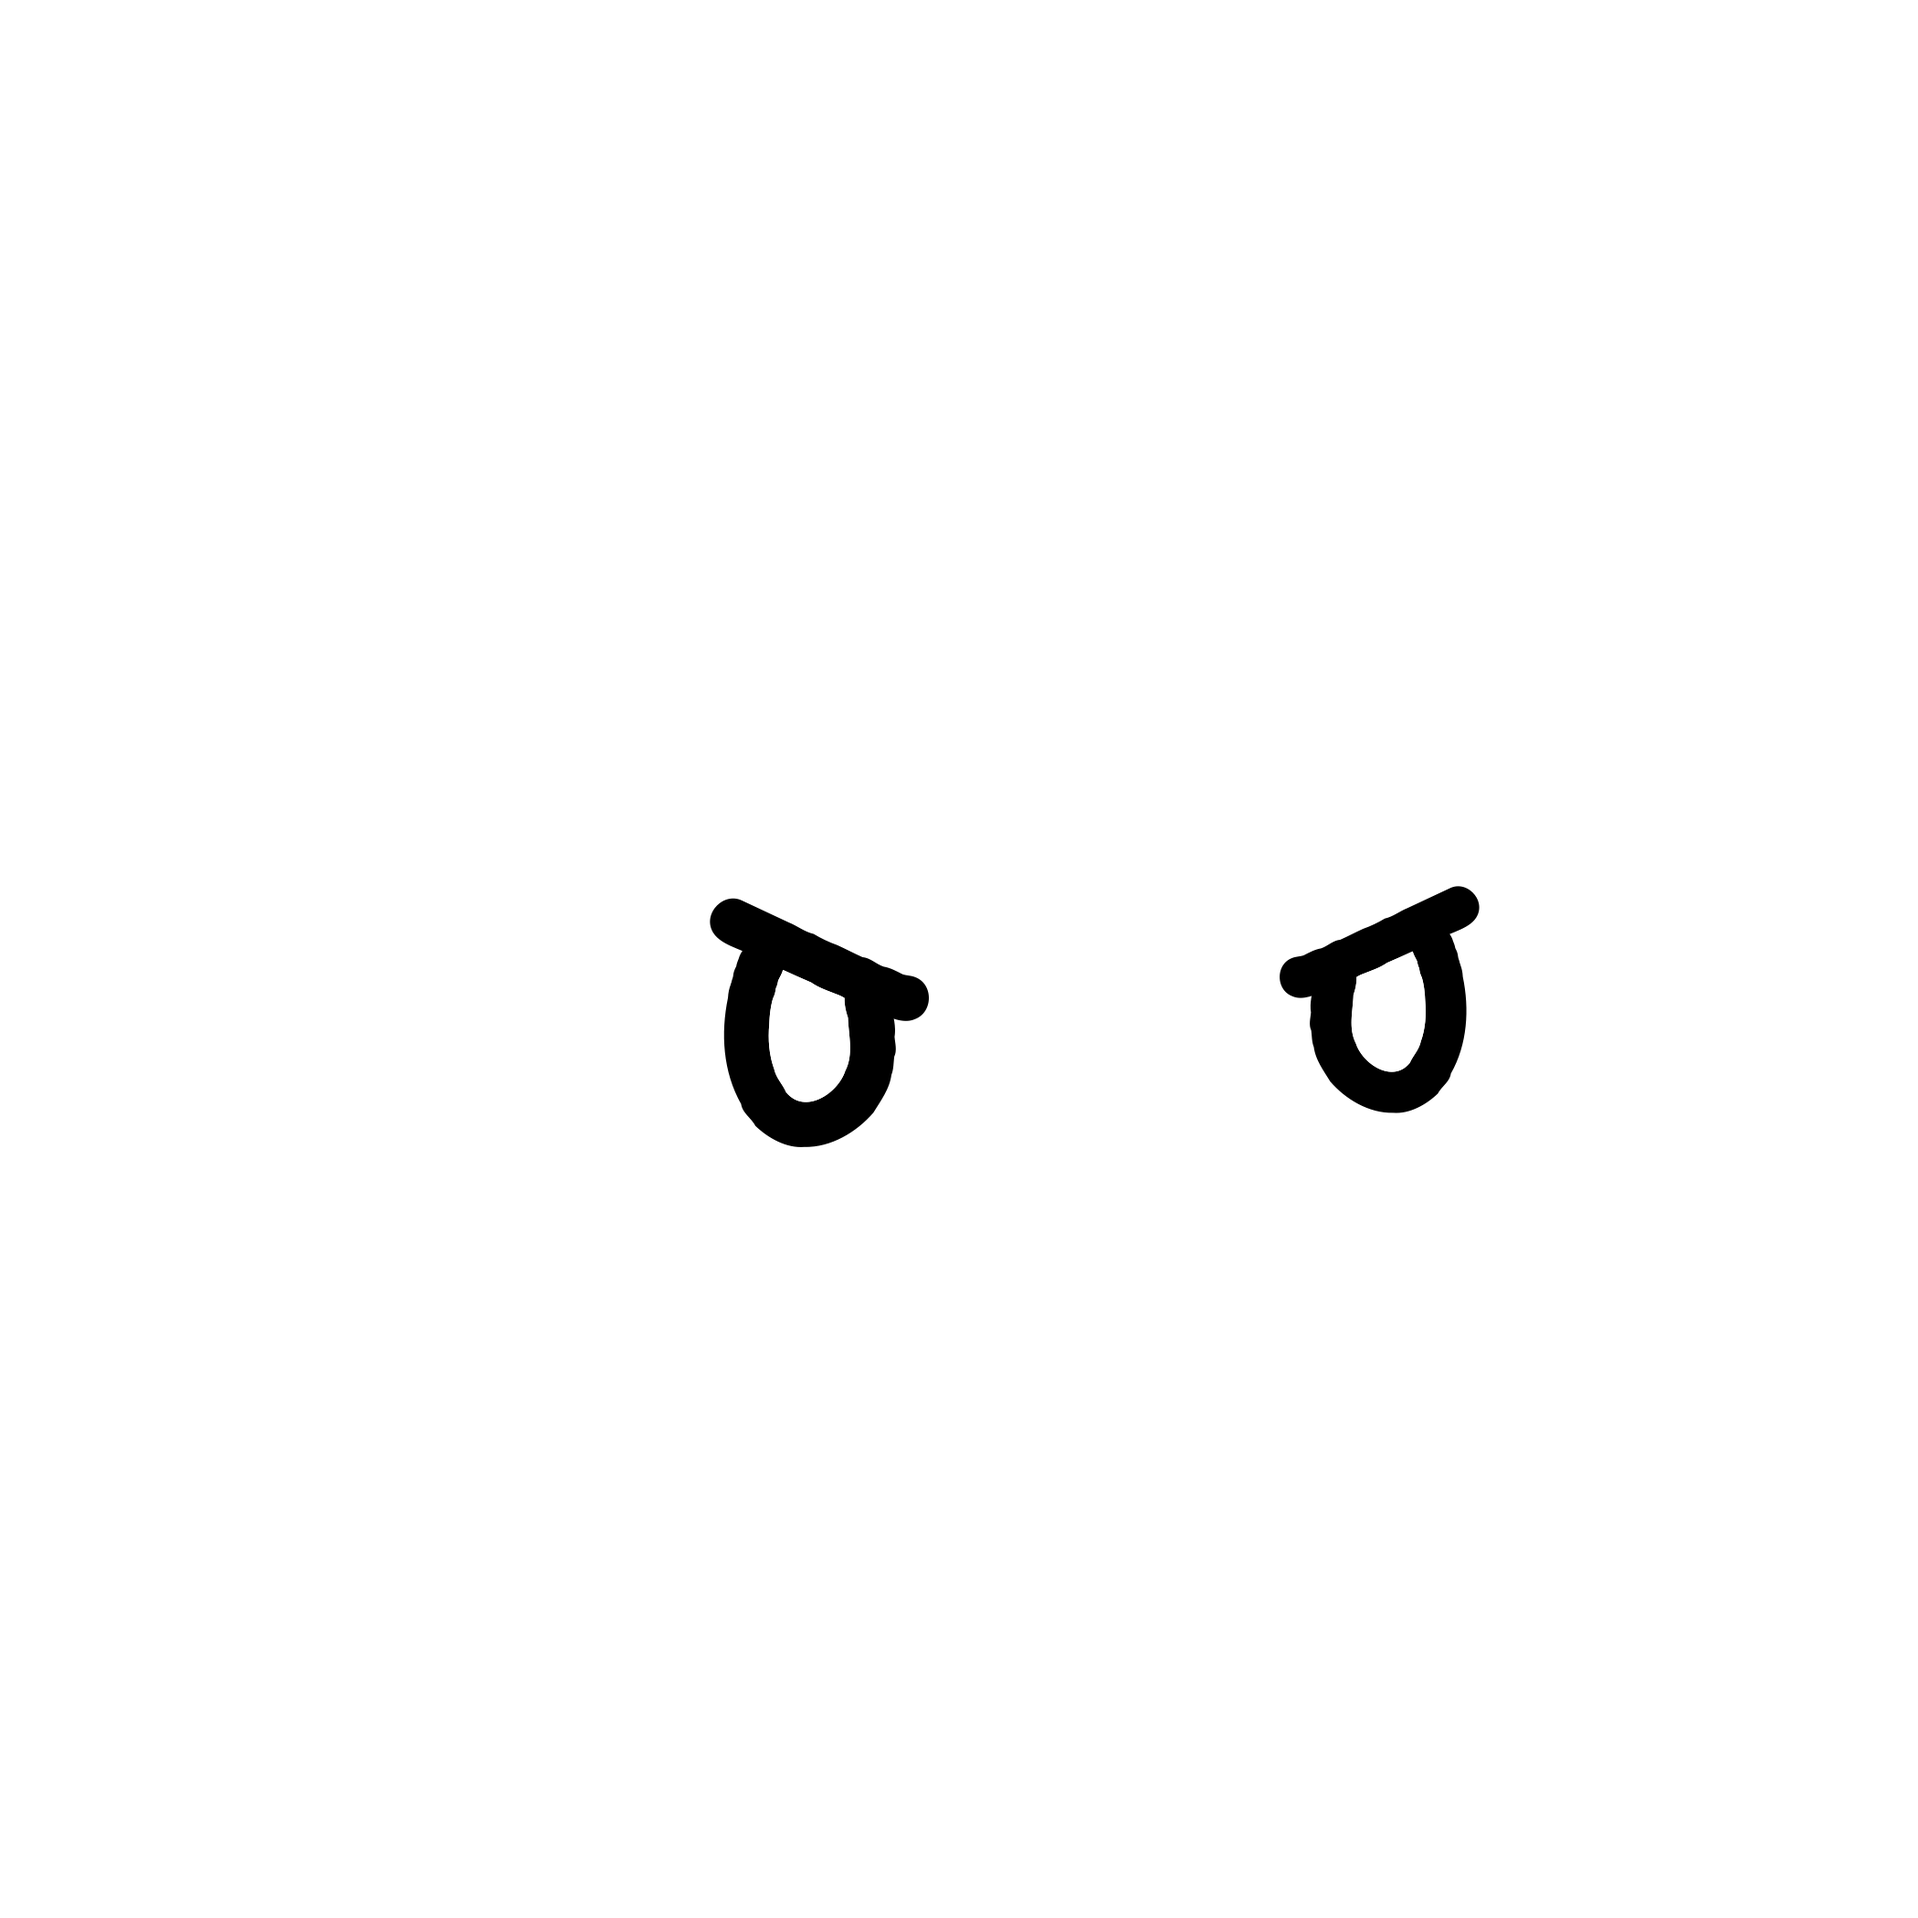
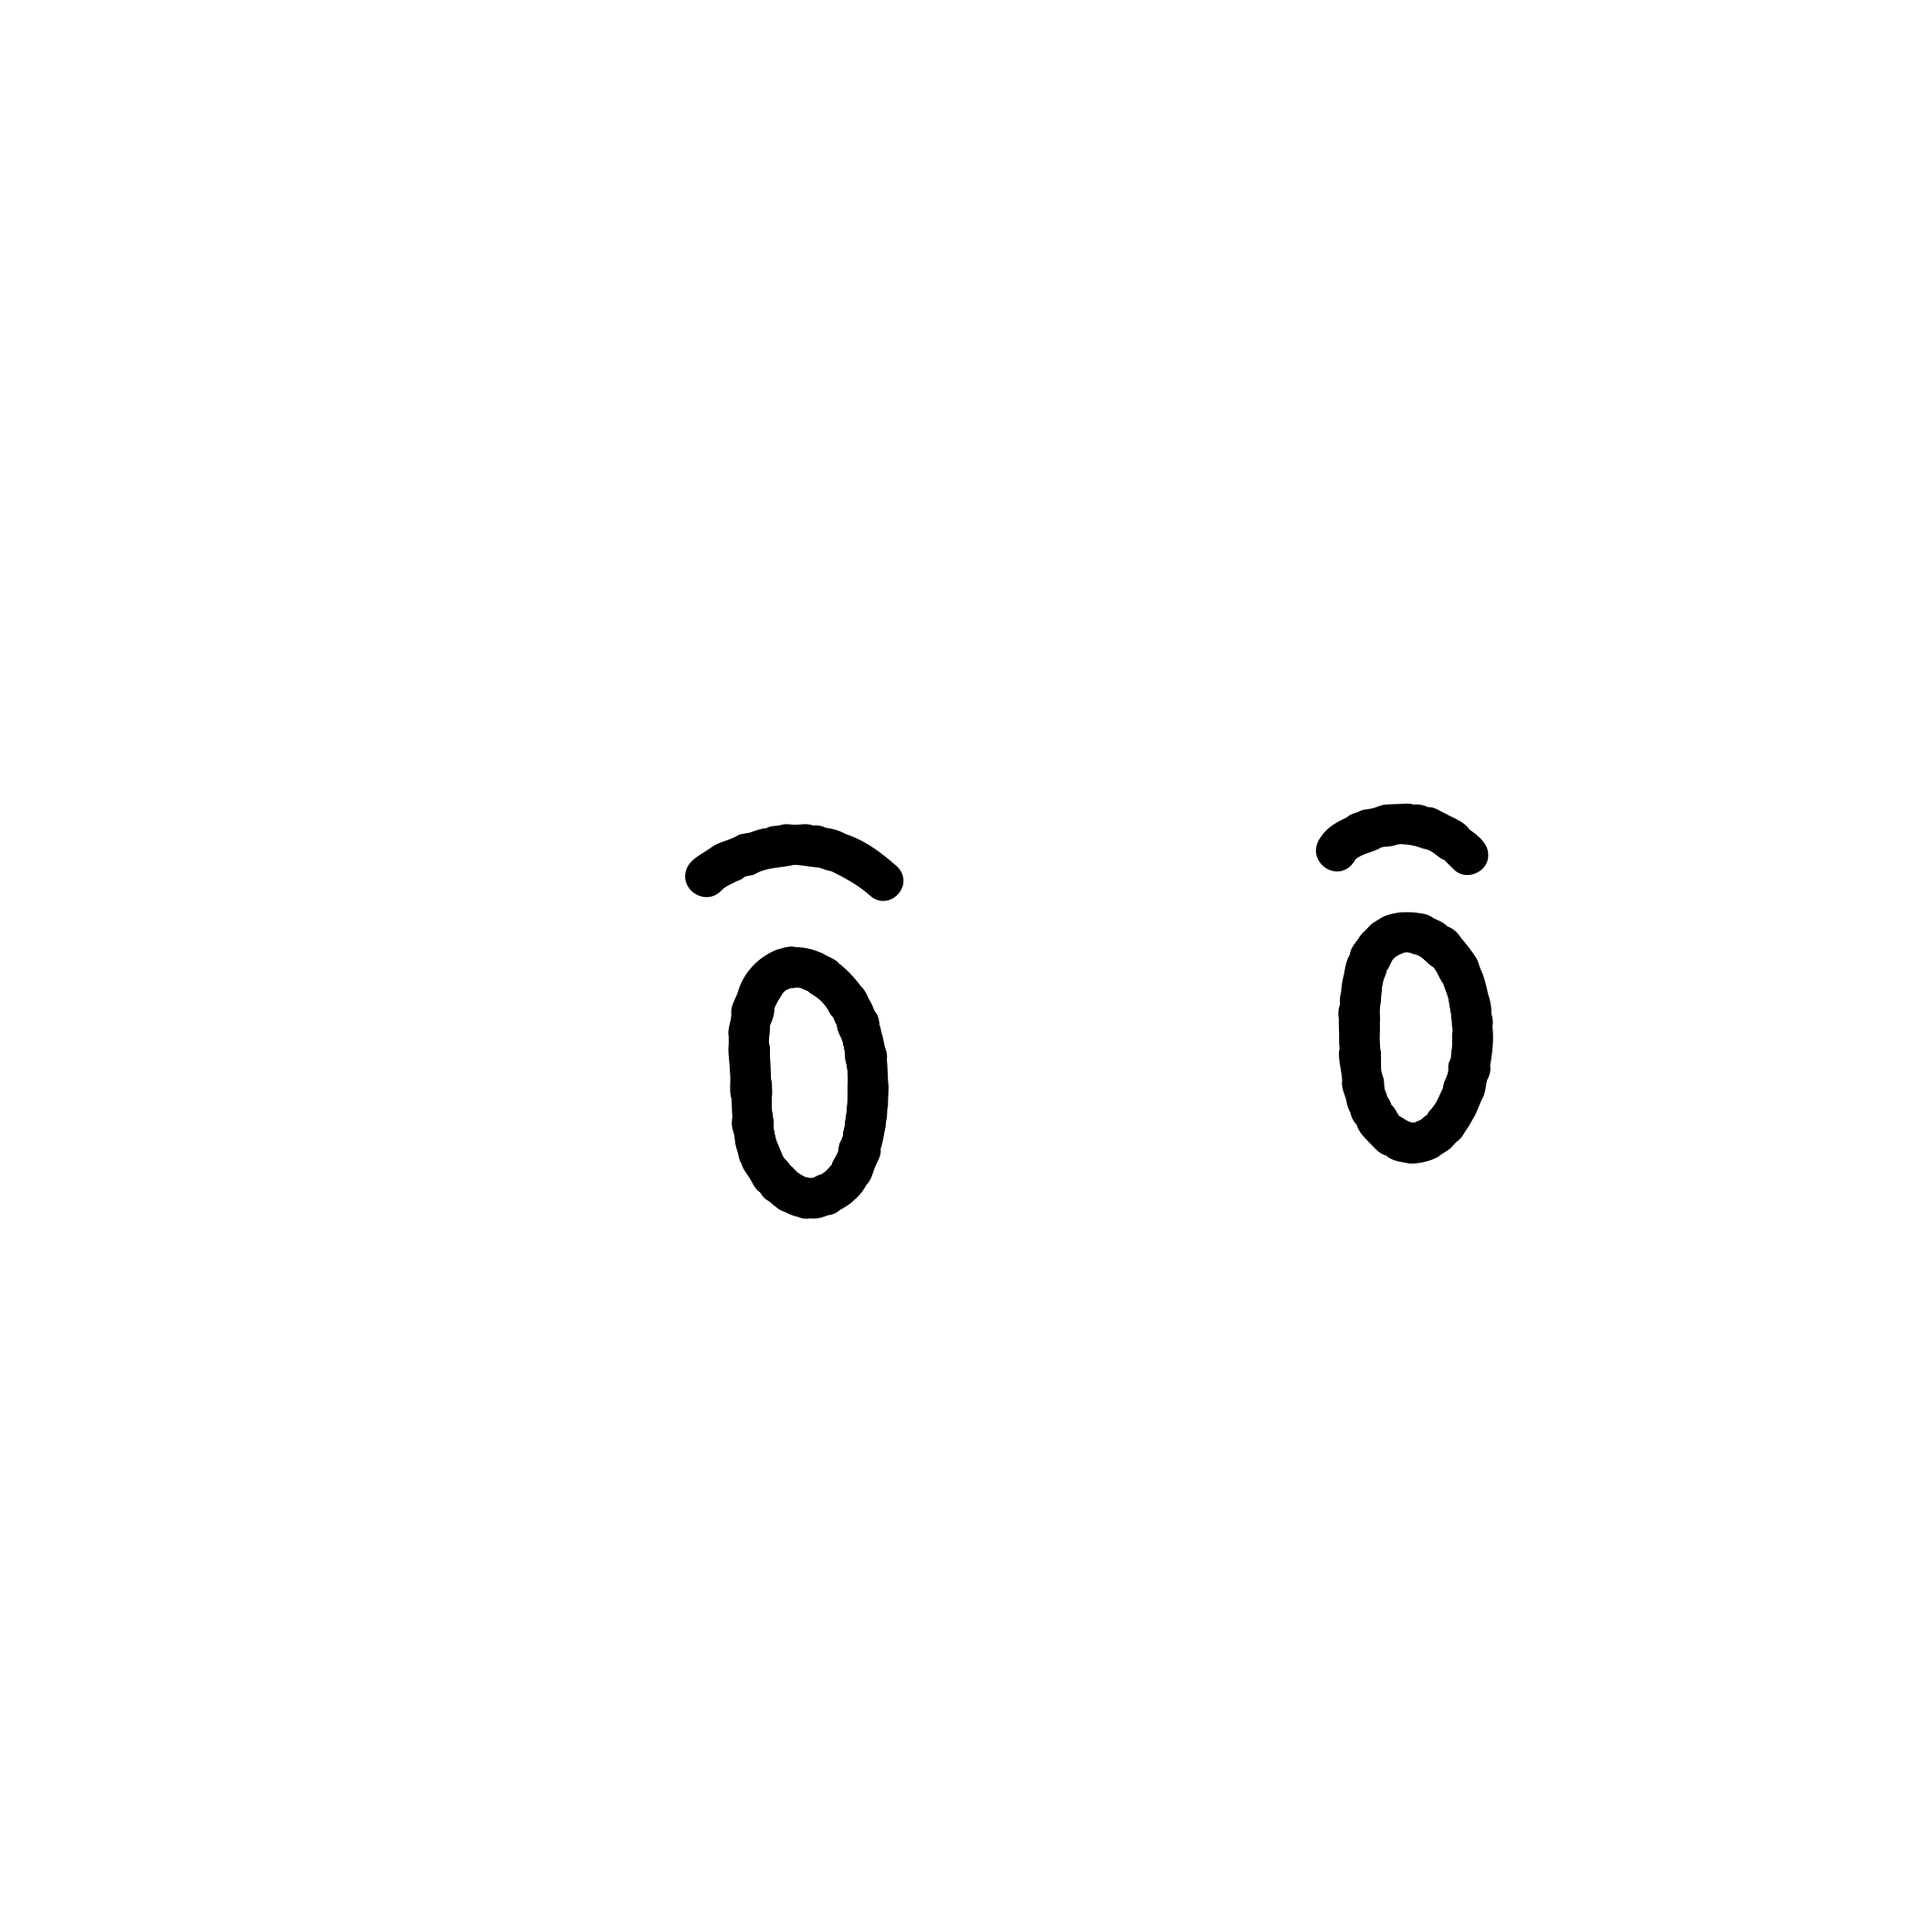
more assets

Changed region(s): [[0.3405, 0.4024, 0.4952, 0.65], [0.65, 0.4024, 0.8048, 0.619]]

diff --git a/scripts/script.js b/scripts/script.js
@@ -9,6 +9,7 @@ let catIndex = 0;
 const eyes = [
   "./images/eyes/1.png",
   "./images/eyes/2.png",
+  "./images/eyes/3.png",
 ];
 let eyeIndex = 0;
 
@@ -16,6 +17,9 @@ let eyeIndex = 0;
 const mouths = [
   "./images/mouths/1.png",
   "./images/mouths/2.png",
+  "./images/mouths/3.png",
+  "./images/mouths/4.png",
+  "./images/mouths/5.png",
 ];
 let mouthIndex = 0;
 
@@ -23,6 +27,26 @@ let mouthIndex = 0;
 const shirts = [
   "./images/shirts/1.png",
   "./images/shirts/2.png",
+  "./images/shirts/3.png",
+  "./images/shirts/4.png",
+  "./images/shirts/5.png",
+  "./images/shirts/6.png",
+  "./images/shirts/7.png",
+  "./images/shirts/8.png",
+  "./images/shirts/9.png",
+  "./images/shirts/10.png",
+  "./images/shirts/11.png",
+  "./images/shirts/12.png",
+  "./images/shirts/13.png",
+  "./images/shirts/14.png",
+  "./images/shirts/15.png",
+  "./images/shirts/16.png",
+  "./images/shirts/17.png",
+  "./images/shirts/18.png",
+  "./images/shirts/19.png",
+  "./images/shirts/20.png",
+  "./images/shirts/21.png",
+
 ];
 let shirtIndex = 0;
 
@@ -31,6 +55,13 @@ const backgrounds = [
   "./images/background/1.png",
   "./images/background/2.png",
   "./images/background/3.png",
+  "./images/background/4.png",
+  "./images/background/5.png",
+  "./images/background/6.png",
+  "./images/background/7.png",
+  "./images/background/8.png",
+  "./images/background/9.png",
+  "./images/background/10.png",
 ];
 let backgroundsIndex = 0;
 

diff --git a/index.html b/index.html
@@ -17,7 +17,7 @@
         <img id="bgImage" class="backgroundImage" src="./images/background/1.png" alt="Your meme background">
         <img id="catImage" src="./images/cat/green.png" alt="Cat">
         <img id="eyeImage" src="./images/eyes/1.png" alt="Eye">
-        <img id="mouthImage" src="./images/mouths/1.png" alt="mouth">
+        <img id="mouthImage" src="./images/mouths/1.png" alt="mouth" style="top: 10px">
         <img id="shirtImage" src="./images/shirts/1.png" alt="shirt">
         <div id="topText" class="meme-text top"></div>
         <div id="bottomText" class="meme-text bottom"></div>
